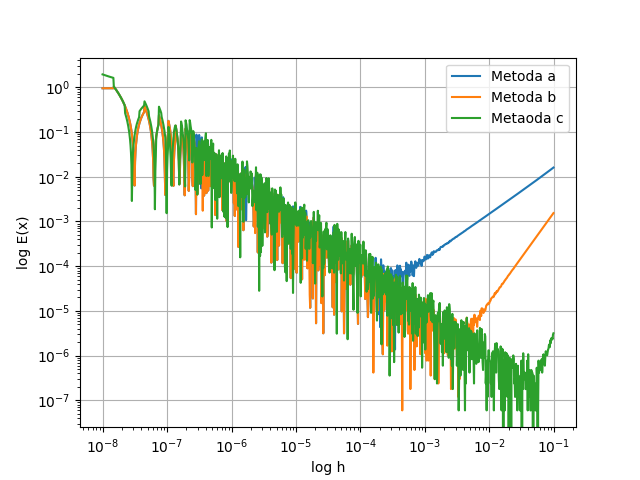
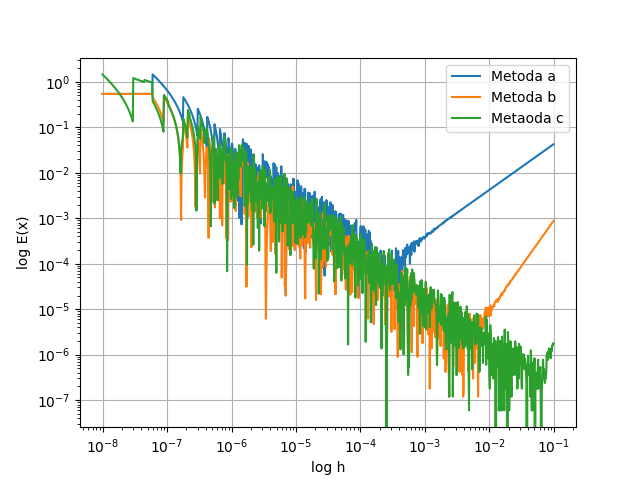
N2 grzdaczek

Changed region(s): [[0.0625, 0.1562, 0.9062, 0.9062], [0.8438, 0.2812, 0.875, 0.3125]]

diff --git a/N2/grzdaczek2.py b/N2/grzdaczek2.py
@@ -1,0 +1,38 @@
+import numpy as np
+
+A = np.array([
+	[1, 1],
+	[1, 1.000001],
+])
+
+b_1 = np.array([8, 8])
+b_2 = np.array([8, 8.00001])
+
+x_1 = np.linalg.solve(A, b_1)
+x_2 = np.linalg.solve(A, b_2)
+
+print(x_1, x_2)
+
+A_1 = np.array([
+	[2.40827208, -0.36066254, 0.80575445, 0.46309511, 1.20708553],
+	[-0.3606625, 1.14839502, 0.02576113, 0.02672584, -1.03949556],
+	[0.80575445, 0.02576113, 2.45964907, 0.13824088, 0.0472749],
+	[0.46309511, 0.02672584, 0.13824088, 2.05614464, -0.9434493],
+	[1.20708553, -1.03949556, 0.0472749, -0.9434493, 1.92753926],
+])
+
+A_2 = np.array([
+	[2.61370745, -0.6334453, 0.76061329, 0.24938964, 0.82783473],
+	[-0.6334453, 1.51060349, 0.08570081, 0.31048984, -0.53591589],
+	[0.76061329, 0.08570081, 2.46956812, 0.18519926, 0.13060923],
+	[0.24938964, 0.31048984, 0.18519926, 2.27845311, -0.54893124],
+	[0.82783473, -0.53591589, 0.13060923, -0.54893124, 2.6276678],
+])
+
+b_1 = np.array([5.40780228, 3.67008677, 3.12306266, -1.11187948, 0.54437218])
+b_2 = b_1 + np.array([10**-5 , 0, 0, 0, 0])
+
+print(np.linalg.solve(A_1, b_1))
+print(np.linalg.solve(A_1, b_2))
+print(np.linalg.solve(A_2, b_1))
+print(np.linalg.solve(A_2, b_2))

diff --git a/N1/derivatives.py b/N1/derivatives.py
@@ -33,10 +33,10 @@ def plot_err(x, h, fn, Dfn, filename):
 	plt.grid()
 	fig.savefig(filename)
 
-x = np.float32(0.3)
+x = np.float32(1)
 h = np.float32(np.logspace(start=-8, stop=-1, num=1000, endpoint=False))
 plot_err(x=x, h=h, fn=np.sin, Dfn=np.cos, filename='./float_32.png')
 
-x = np.float64(0.3)
+x = np.float64(1)
 h = np.float64(np.logspace(start=-16, stop=-1, num=1000, endpoint=False))
 plot_err(x=x, h=h, fn=np.sin, Dfn=np.cos, filename='./float_64.png')
